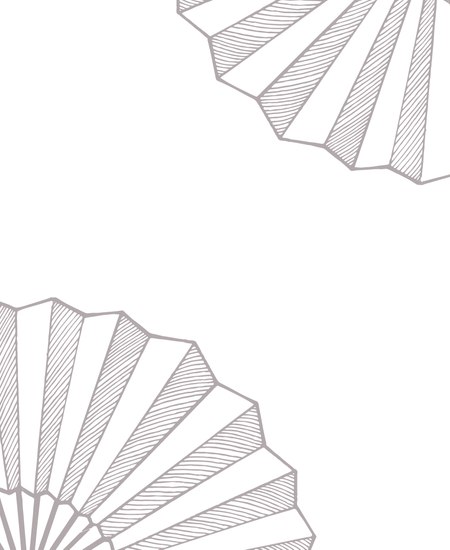
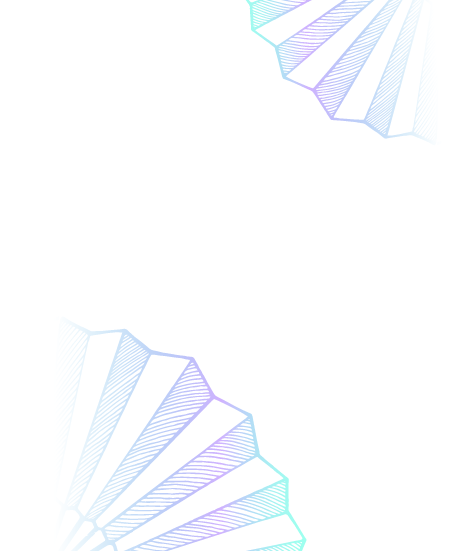
nuevos abanicos y ajustes en pizarra

Changed region(s): [[0.0, 0.5255, 0.7156, 1.0], [0.3733, 0.0, 1.0, 0.34]]

diff --git a/src/components/Questions/Questions.css b/src/components/Questions/Questions.css
@@ -1,5 +1,5 @@
 .questions-cont {
-  padding: 5rem 0;
+  padding: 2rem 0;
 }
 
 .questions-cont div {
@@ -10,27 +10,10 @@
   color: #CEBCCC;
 }
 
-.questions-img.pizarra-pared {
-    width: auto;
-    
-    box-shadow: 0px 2.8px 2.2px rgba(0, 0, 0, 0.02),
-    0px 6.7px 5.3px rgba(0, 0, 0, 0.028), 0px 12.5px 10px rgba(0, 0, 0, 0.035),
-    0px 22.3px 17.9px rgba(0, 0, 0, 0.042),
-    0px 41.8px 33.4px rgba(0, 0, 0, 0.05), 0px 100px 80px rgba(0, 0, 0, 0.07);
-    border-radius: 8px;
-    position: relative;
-    z-index: 3;
-}
-
-.questions-img-cont.pizarra-pared-cont {
-    position: relative;
-    
-
-}
 .questions-img-cont.pizarra-pared-cont::after {
   display: block;
   content: "";
-  background: #CEBCCC;
+  background: rgb(206, 188, 204);
   width: 69%;
   height: 100%;
   position: absolute;
@@ -42,12 +25,9 @@
 
 .questions-img.pizarra-sticky {
     width: auto;
-    max-width: 1000px;
+    max-width: 700px;
     max-height: 100%;
-    box-shadow: 0px 2.8px 2.2px rgba(0, 0, 0, 0.02),
-    0px 6.7px 5.3px rgba(0, 0, 0, 0.028), 0px 12.5px 10px rgba(0, 0, 0, 0.035),
-    0px 22.3px 17.9px rgba(0, 0, 0, 0.042),
-    0px 41.8px 33.4px rgba(0, 0, 0, 0.05), 0px 100px 80px rgba(0, 0, 0, 0.07);
+    box-shadow: 0px 8px 30px -5px rgba(206, 188, 204, 1);
     border-radius: 8px;
     position: relative;
     z-index: 3;
@@ -58,7 +38,7 @@
     
 
 }
-.questions-img-cont.pizarra-sticky-cont::after {
+/* .questions-img-cont.pizarra-sticky-cont::after {
   display: block;
   content: "";
   background: #CEBCCC;
@@ -69,7 +49,7 @@
   left: 200px;
   z-index: 2;
   border-radius: 8px;
-}
+} */
 
 @media screen and (max-width: 769px) {
     .questions-img.pizarra-pared {
@@ -90,17 +70,5 @@
     .questions-img.pizarra-sticky {
         max-width: 90%;
     }
-    .questions-img-cont.pizarra-sticky-cont::after {
-        display: block;
-        content: "";
-        background: #CEBCCC;
-        width: 95%;
-        height: 100%;
-        position: absolute;
-        top: 5%;
-        left: 2.5%;
-        z-index: 2;
-        border-radius: 8px;
-      }
   }
   

diff --git a/src/components/Hero/Hero.css b/src/components/Hero/Hero.css
@@ -15,11 +15,11 @@
   text-align: center;
 }
 .hero-yotu {
-  background-color: #7ccbe9;
+  background-color: #99FFEE;
   font-family: "BellB";
 }
 .hero-counseling {
-  background-color: #039984;
+  background-color: #D0B2FF;
   color: white;
   font-family: "BellB";
 }
